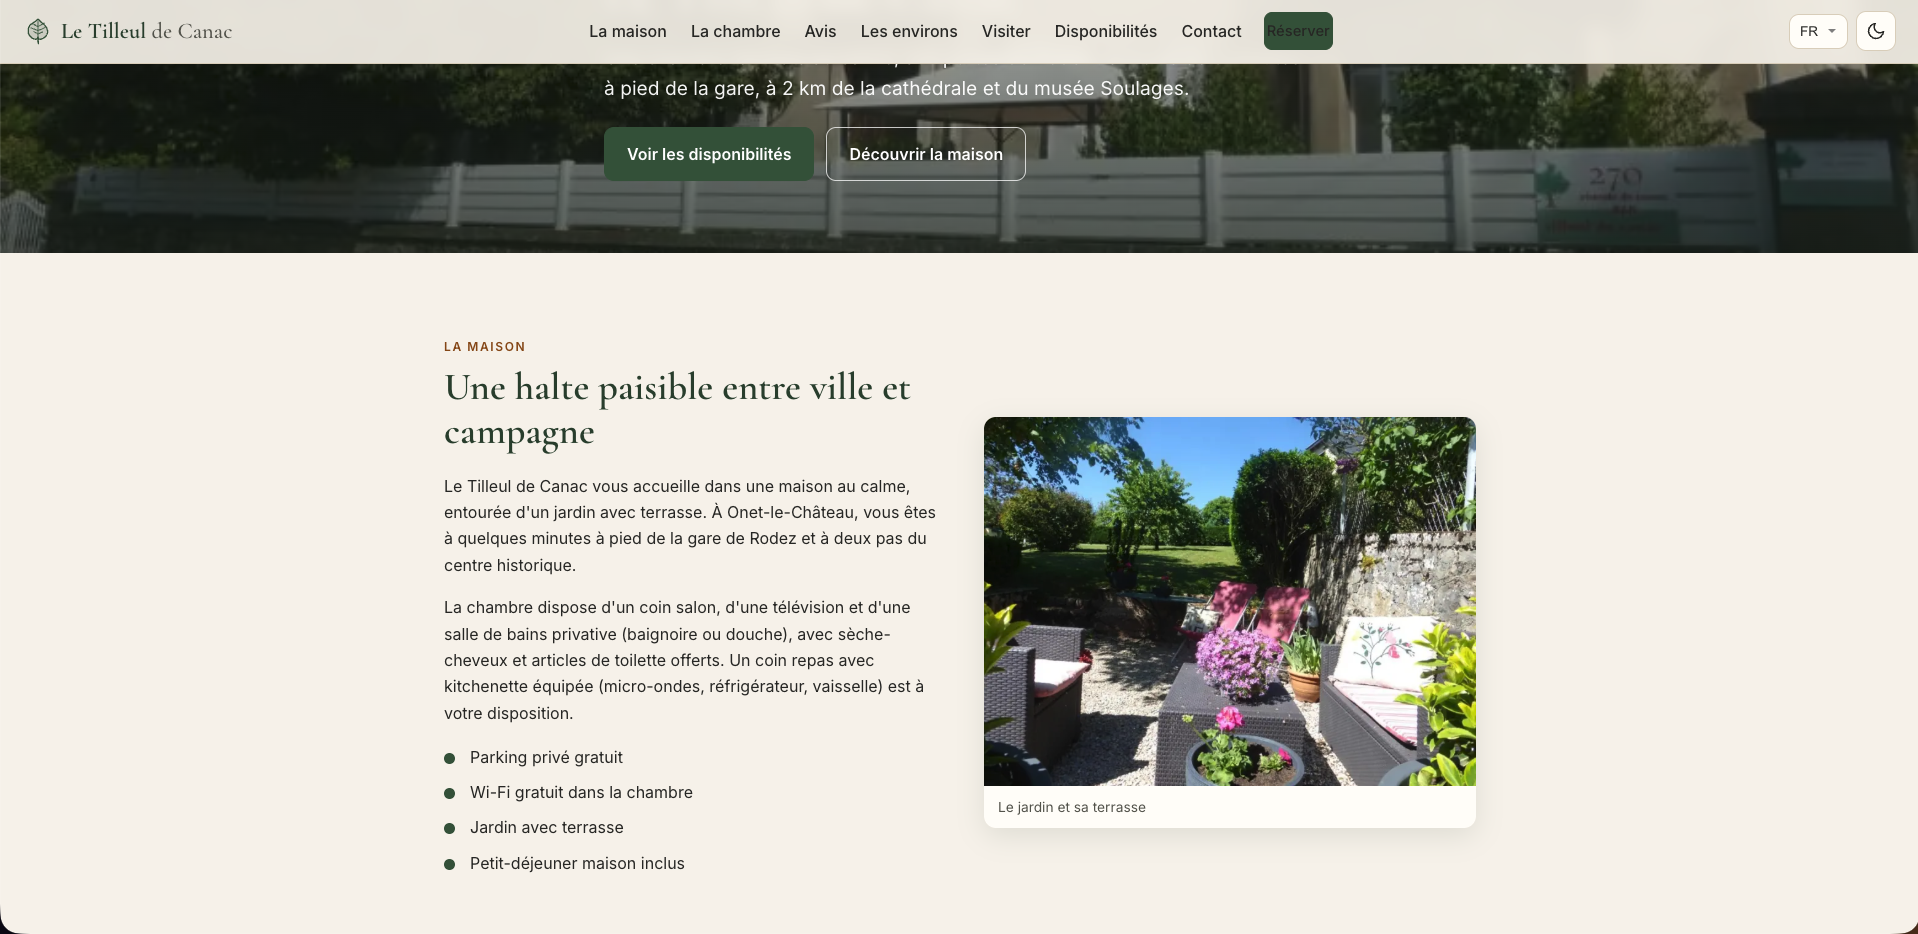
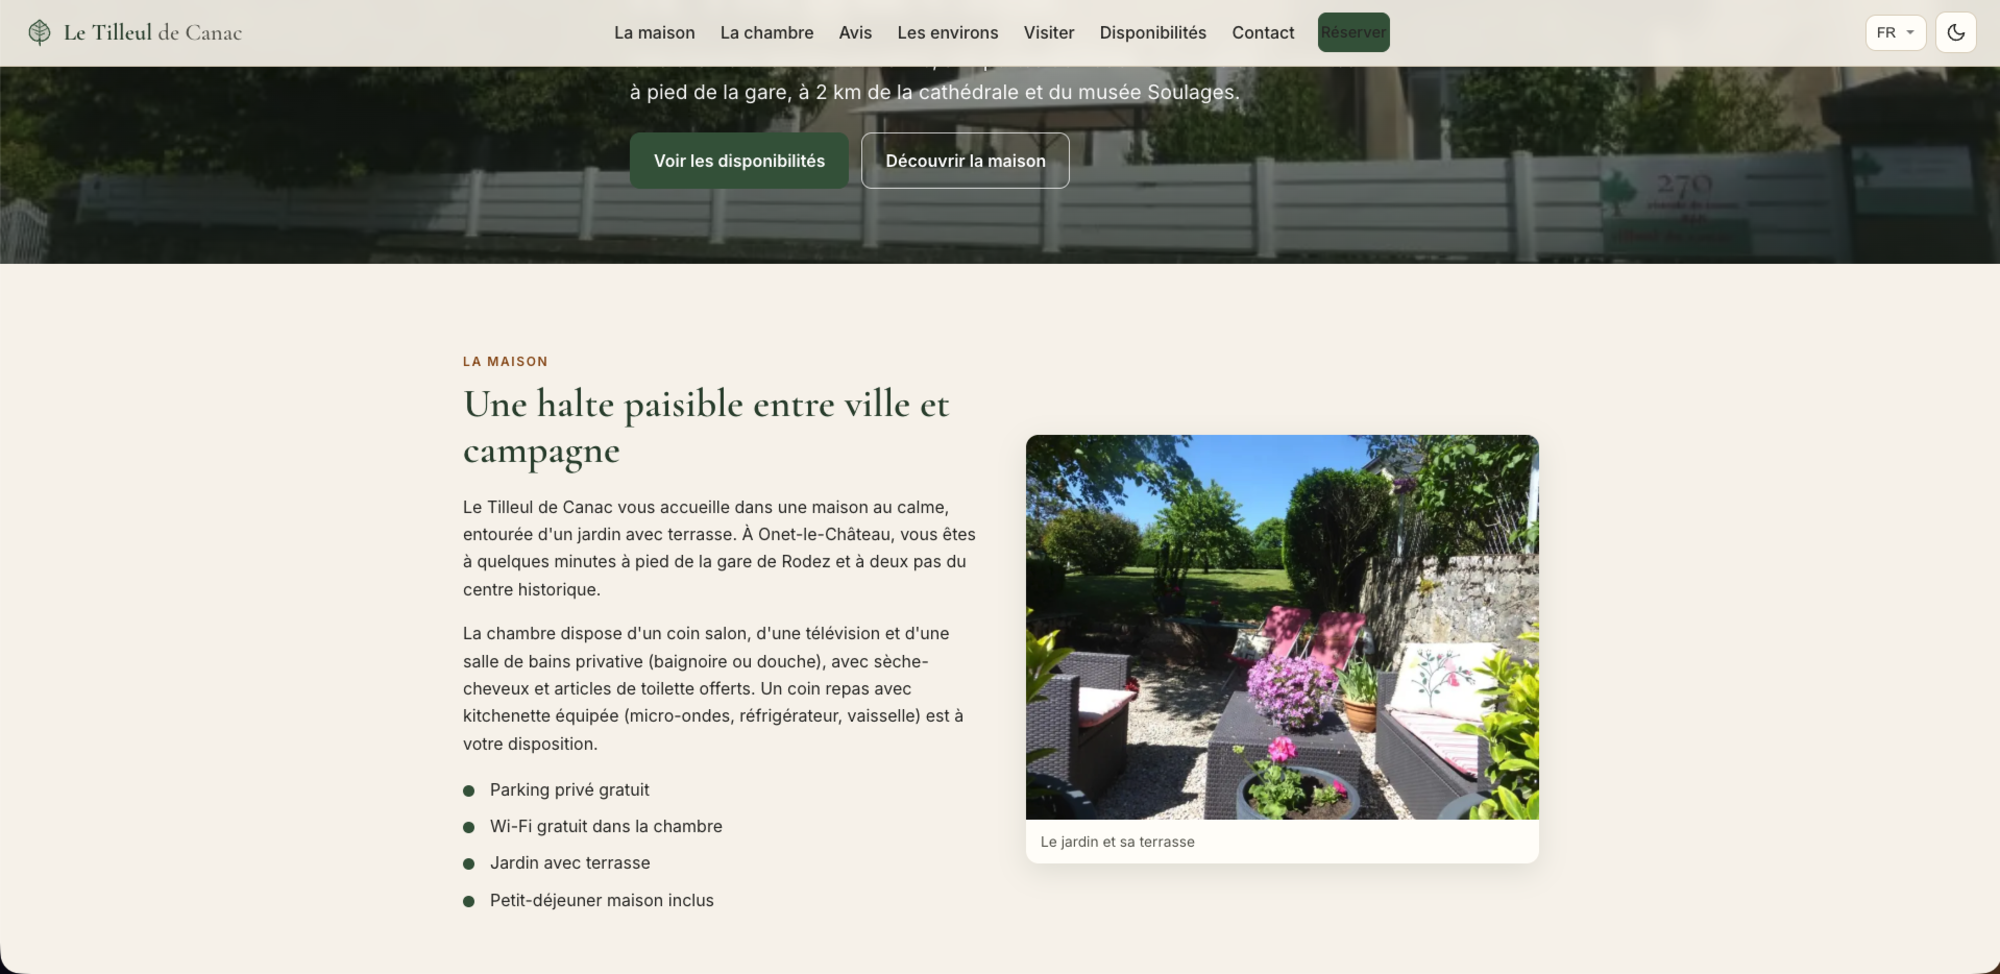
style(landing): redesign landing page

diff --git a/landing-page/index.html b/landing-page/index.html
@@ -1,114 +1,91 @@
 <!doctype html>
 <html lang="fr">
 <head>
-  <meta charset="utf-8" />
-  <meta name="viewport" content="width=device-width, initial-scale=1" />
-  <title>Le Tilleul de Canac — chambre d'hôtes en Aveyron</title>
-  <meta name="description" content="Le Tilleul de Canac, chambre d'hôtes en Aveyron, aux portes de Rodez. Site en préparation." />
-  <link rel="canonical" href="https://vlldnt.fr/tilleul-canac/" />
-  <link rel="icon" type="image/svg+xml" href="/tilleul-canac/favicon.svg" />
-  <link rel="apple-touch-icon" href="/tilleul-canac/favicon.svg" />
-  <meta name="robots" content="noindex" />
-  <meta name="theme-color" content="#f7f3ec" media="(prefers-color-scheme: light)" />
-  <meta name="theme-color" content="#14171a" media="(prefers-color-scheme: dark)" />
-  <style>
-    :root {
-      --bg: #f7f3ec;
-      --surface: #fffdf9;
-      --text: #2b2b28;
-      --muted: #5c5c54;
-      --border: #ddd3c1;
-      --heading: #2d4632;
-      --accent: #8f4f16;
-      --font-serif: "Cormorant Garamond", "Iowan Old Style", Georgia, "Times New Roman", serif;
-      --font-sans: "Inter", -apple-system, BlinkMacSystemFont, "Segoe UI", Roboto, sans-serif;
-      color-scheme: light;
-    }
-    @media (prefers-color-scheme: dark) {
-      :root {
-        --bg: #14171a; --surface: #1e2327; --text: #e7e4db; --muted: #a9a99f;
-        --border: #333a3b; --heading: #a8ccac; --accent: #e39463;
-        color-scheme: dark;
-      }
-    }
-    * { box-sizing: border-box; }
-    body {
-      margin: 0;
-      min-height: 100dvh;
-      display: grid;
-      place-items: center;
-      background: var(--bg);
-      color: var(--text);
-      font-family: var(--font-sans);
-      line-height: 1.65;
-      -webkit-font-smoothing: antialiased;
-      padding: 24px;
-    }
-    main { max-width: 30rem; text-align: center; }
-
-    .leaf { width: 52px; height: 52px; margin: 0 auto; display: block; }
-
-    .eyebrow {
-      margin: 22px 0 0;
-      font-size: 0.78rem;
-      letter-spacing: 0.22em;
-      text-transform: uppercase;
-      color: var(--accent);
-    }
-    h1 {
-      margin: 10px 0 0;
-      font-family: var(--font-serif);
-      font-weight: 600;
-      font-size: clamp(2.2rem, 8vw, 3.2rem);
-      line-height: 1.1;
-      color: var(--heading);
-    }
-    p.note {
-      margin: 18px 0 0;
-      color: var(--muted);
-    }
-
-    .badge {
-      display: inline-block;
-      margin-top: 26px;
-      padding: 6px 14px;
-      border: 1px solid var(--border);
-      border-radius: 999px;
-      background: var(--surface);
-      font-size: 0.78rem;
-      letter-spacing: 0.1em;
-      text-transform: uppercase;
-      color: var(--muted);
-    }
-
-    footer {
-      margin-top: 34px;
-      font-size: 0.8rem;
-      color: var(--muted);
-    }
-  </style>
+<meta charset="utf-8" />
+<meta name="viewport" content="width=device-width, initial-scale=1" />
+<title>Le Tilleul de Canac — site vitrine d&#x27;une chambre d&#x27;hôtes (en construction)</title>
+<meta name="description" content="Site vitrine d&#x27;une chambre d&#x27;hôtes en Aveyron : présentation, galerie et disponibilités. Projet client en cours de construction — React, Vite, Leaflet." />
+<link rel="canonical" href="https://vlldnt.fr/tilleul-canac/" />
+<link rel="icon" type="image/svg+xml" href="./favicon.svg" />
+<link rel="apple-touch-icon" href="./favicon.svg" />
+<meta name="theme-color" content="#f7f3ec" />
+<style>
+:root{--bg:#f7f3ec;--surface:#fffdf9;--text:#2b2b28;--muted:#5c5c54;--rule:#ddd3c1;--accent:#8f4f16;--accent-ink:#ffffff;--head:#2d4632;
+--sans:Inter,-apple-system,BlinkMacSystemFont,"Segoe UI",Roboto,Helvetica,Arial,sans-serif;--serif:"Iowan Old Style","Palatino Linotype",Palatino,Georgia,serif;color-scheme:light}
+*{box-sizing:border-box}html{scroll-behavior:smooth}
+body{margin:0;background:var(--bg);color:var(--text);font:16px/1.65 var(--sans);-webkit-font-smoothing:antialiased}
+a{color:var(--accent)}a:hover{text-underline-offset:3px}
+img{display:block;max-width:100%;height:auto}
+:focus-visible{outline:2px solid var(--accent);outline-offset:3px;border-radius:3px}
+.wrap{max-width:68rem;margin:0 auto;padding:0 24px}
+.bar{border-bottom:1px solid var(--rule)}
+.bar .wrap{display:flex;align-items:center;justify-content:space-between;gap:16px;min-height:60px}
+.brand{display:flex;align-items:center;gap:10px;color:var(--head);font-weight:650;letter-spacing:-.01em;text-decoration:none}
+.brand img{width:26px;height:26px;border-radius:6px}
+.bar nav{display:flex;gap:22px;font-size:.9rem}
+.bar nav a{color:var(--muted);text-decoration:none}.bar nav a:hover{color:var(--head);text-decoration:underline}
+@media(max-width:620px){.bar nav a:not(.back){display:none}}
+.hero{padding:clamp(40px,7vw,88px) 0 clamp(32px,6vw,72px)}
+.hero .wrap{display:grid;gap:clamp(28px,5vw,56px);align-items:center;grid-template-columns:1fr}
+@media(min-width:900px){.hero .wrap{grid-template-columns:minmax(0,.9fr) minmax(0,1.1fr)}}
+.eyebrow{margin:0 0 14px;font-size:.78rem;font-weight:600;letter-spacing:.12em;text-transform:uppercase;color:var(--accent)}
+h1{margin:0;font-family:var(--serif);font-weight:600;font-size:clamp(2.3rem,5.6vw,3.7rem);line-height:1.06;letter-spacing:-.025em;color:var(--head)}
+.lead{margin:20px 0 0;max-width:34rem;font-size:clamp(1.02rem,1.9vw,1.15rem);color:var(--muted)}
+.actions{margin:28px 0 0;display:flex;flex-wrap:wrap;align-items:center;gap:14px 22px}
+.btn{display:inline-block;padding:11px 20px;border-radius:6px;background:var(--accent);color:var(--accent-ink);font-weight:600;font-size:.95rem;text-decoration:none}
+.btn:hover{filter:brightness(1.08)}
+.link{font-weight:600;font-size:.95rem}
+.shot{margin:0;border:1px solid var(--rule);border-radius:8px;overflow:hidden;background:var(--surface)}
+section.s{padding:clamp(36px,6vw,68px) 0;border-top:1px solid var(--rule)}
+.cols{display:grid;gap:clamp(24px,5vw,64px);grid-template-columns:1fr}
+@media(min-width:820px){.cols{grid-template-columns:minmax(0,.7fr) minmax(0,1.3fr)}}
+h2{margin:0;font-family:var(--serif);font-weight:600;font-size:clamp(1.4rem,3vw,1.85rem);line-height:1.2;letter-spacing:-.015em;color:var(--head)}
+.prose{margin:0;color:var(--muted);max-width:38rem}
+.prose+.prose{margin-top:14px}
+dl{margin:0;display:grid;grid-template-columns:minmax(7rem,.35fr) 1fr;gap:0}
+dt,dd{margin:0;padding:11px 0;border-top:1px solid var(--rule)}
+dt{font-size:.85rem;color:var(--muted)}dd{font-size:.97rem}
+dl>:nth-last-child(-n+2){border-bottom:1px solid var(--rule)}
+ol.items,ul.items{list-style:none;margin:0;padding:0;display:grid;gap:0 clamp(24px,5vw,56px);grid-template-columns:1fr}
+@media(min-width:760px){ol.items,ul.items{grid-template-columns:1fr 1fr}}
+.items li{padding:18px 0;border-top:1px solid var(--rule)}
+.items h3{margin:0;font-size:1.02rem;font-weight:650;color:var(--head);letter-spacing:-.005em}
+.items p{margin:6px 0 0;color:var(--muted);font-size:.96rem}
+.items .n{display:block;margin-bottom:4px;font-size:.78rem;font-weight:600;color:var(--accent);font-variant-numeric:tabular-nums}
+@media(min-width:760px){.gallery{grid-template-columns:1fr 1fr}.gallery figure:last-child{grid-column:1}}
+.gallery{display:grid;gap:22px;grid-template-columns:1fr}
+.gallery figure{margin:0}.gallery img{border:1px solid var(--rule);border-radius:8px;background:var(--surface)}
+.gallery img[src$="mobile.jpg"]{max-width:300px}
+.gallery figcaption{margin-top:8px;font-size:.88rem;color:var(--muted)}
+table{width:100%;border-collapse:collapse;font-size:.95rem}
+th,td{text-align:left;padding:11px 12px 11px 0;border-top:1px solid var(--rule);vertical-align:top}
+th{font-weight:600;color:var(--muted);font-size:.8rem;letter-spacing:.04em;text-transform:uppercase}
+tr:last-child td{border-bottom:1px solid var(--rule)}
+td.num{font-variant-numeric:tabular-nums;white-space:nowrap}
+.st{font-weight:600}
+.st.ok{color:#2f6b3b}.st.warn{color:#8a5a00}.st.full{color:#a4501a}.st.over{color:#a33a2a}
+footer{border-top:1px solid var(--rule);padding:24px 0 36px;font-size:.88rem;color:var(--muted)}
+footer .wrap{display:flex;flex-wrap:wrap;justify-content:space-between;gap:8px 24px}
+@media(prefers-reduced-motion:reduce){html{scroll-behavior:auto}}
+</style>
 </head>
 <body>
-  <main>
-    <svg class="leaf" viewBox="0 0 64 64" aria-hidden="true">
-      <path fill="#3a5a40" d="M32 5c7 8 19 12 22 26 2 11-9 19-16 20-3 .5-5-2-6-5-1 3-3 5.5-6 5-7-1-18-9-16-20C6.9 17 25 13 32 5Z"/>
-      <g fill="none" stroke="#dff0e0" stroke-width="2" stroke-linecap="round">
-        <path d="M32 46V10"/>
-        <path d="M32 22 46 14M32 22 19 15M32 31 49 24M32 31 16 25M32 39 44 34M32 39 21 33"/>
-      </g>
-      <path fill="none" stroke="#7a5230" stroke-width="3.2" stroke-linecap="round" d="M32 46c0 6 0 9 1 15"/>
-    </svg>
-
-    <p class="eyebrow">Chambre d'hôtes · Aveyron</p>
-    <h1>Le Tilleul de Canac</h1>
-    <p class="note">
-      Une chambre au calme, aux portes de Rodez.
-      Le site est en cours de préparation.
-    </p>
-
-    <span class="badge">Site en construction</span>
-
-    <footer>© Le Tilleul de Canac</footer>
-  </main>
+<header class="bar"><div class="wrap"><a class="brand" href="./"><img src="./favicon.svg" alt="" width="26" height="26" />Le Tilleul de Canac</a><nav aria-label="Navigation"><a href="#projet">Le projet</a><a href="#contenu">Contenu</a><a class="back" href="https://vlldnt.fr/">← vlldnt.fr</a></nav></div></header>
+<main>
+<section class="hero"><div class="wrap"><div><p class="eyebrow">Chambre d&#x27;hôtes · Aveyron</p><h1>Le Tilleul de Canac</h1><p class="lead">Une chambre au calme, aux portes de Rodez. Le site est en cours de préparation.</p></div>
+<figure class="shot"><img src="./portfolio.png" width="1918" height="934" alt="Page d&#x27;accueil du site du Tilleul de Canac : une halte paisible entre ville et campagne, avec une photo de la maison et du jardin." /></figure></div></section>
+<section class="s" id="projet"><div class="wrap cols"><div><h2>Le projet</h2></div><div>
+<p class="prose">Site vitrine d&#x27;une chambre d&#x27;hôtes en Aveyron, pensé pour présenter le lieu simplement et permettre aux visiteurs de vérifier les disponibilités.</p>
+<p class="prose">Le site est en cours de construction ; cette page présente son état actuel.</p>
+<dl style="margin-top:26px"><dt>Rôle</dt><dd>Projet client — conception et développement</dd><dt>Stack</dt><dd>React · Vite · Leaflet</dd><dt>Statut</dt><dd><strong>En construction</strong></dd></dl></div></div></section>
+<section class="s" id="contenu"><div class="wrap cols"><div><h2>Contenu prévu</h2></div><div>
+<ul class="items">
+<li><span class="n">01</span><h3>Présentation</h3><p>Le lieu et la chambre.</p></li>
+<li><span class="n">02</span><h3>Galerie</h3><p>Photos du lieu.</p></li>
+<li><span class="n">03</span><h3>Disponibilités</h3><p>Les périodes libres, avec une carte du secteur.</p></li>
+</ul>
+</div></div></section>
+</main>
+<footer><div class="wrap"><span>© Le Tilleul de Canac</span><a href="https://vlldnt.fr/">← Retour au portfolio</a></div></footer>
 </body>
 </html>
